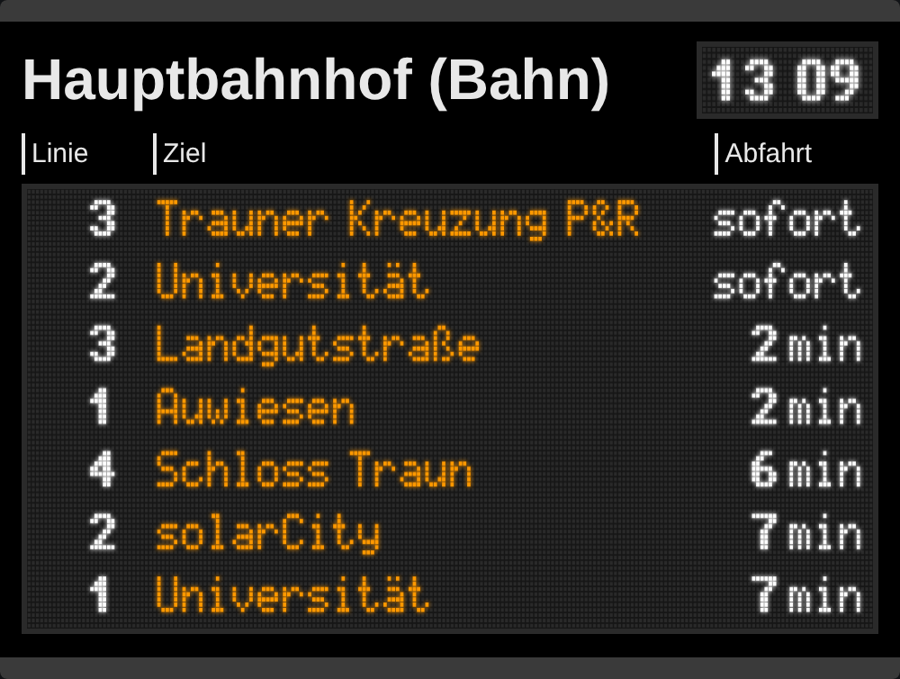
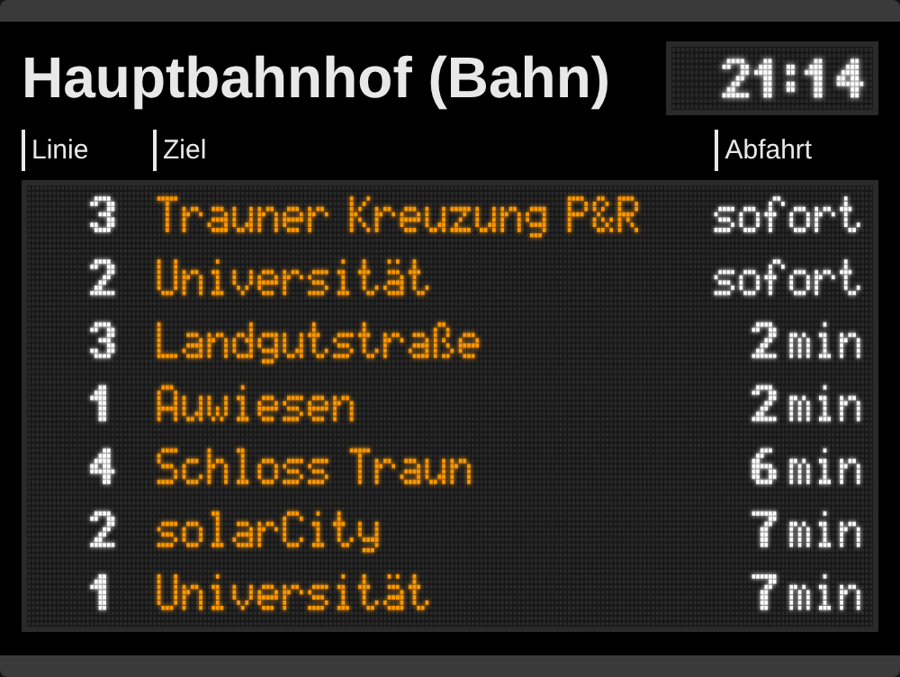
v2.3.3: LED-Wall – LED-Fenster mit Uhrzeit, Datum und Temperatur im Wechsel
- Inhalt des LED-Fensters rechtsbündig
- Wechsel: Uhrzeit 6 s (Doppelpunkt blinkt), Datum 3 s, Temperatur 3 s
  (Temperatur am Ort der Haltestelle aus dem Sensor "Nächste Abfahrt")
- Einstellbar: Wechsel oder nur Uhrzeit (led_clock_mode: time)
- Beschreibung und Vorschaubild angepasst

Claude-Session: https://claude.ai/code/session_01UGasuBwGSLjhjSTvDMnsjH

diff --git a/custom_components/linz_ag_monitor/frontend/linz-linien-combined.js b/custom_components/linz_ag_monitor/frontend/linz-linien-combined.js
@@ -434,7 +434,16 @@ class LinzMonitorIrmscherEditorV11 extends HTMLElement {
             </select>
           </div>
         </div>
-        <label class="toggle-box"><input id="led_clock" class="std-input" type="checkbox" ${this._config.led_clock !== false ? 'checked' : ''}><span>Uhrzeit oben rechts (LED-Fenster)</span></label>
+        <div class="grid-2">
+          <label class="toggle-box"><input id="led_clock" class="std-input" type="checkbox" ${this._config.led_clock !== false ? 'checked' : ''}><span>LED-Fenster oben rechts</span></label>
+          <div>
+            <label>🕒 Im LED-Fenster</label>
+            <select id="led_clock_mode" class="std-input">
+              <option value="" ${this._config.led_clock_mode !== 'time' ? 'selected' : ''}>Uhrzeit, Datum &amp; Temperatur im Wechsel</option>
+              <option value="time" ${this._config.led_clock_mode === 'time' ? 'selected' : ''}>Nur Uhrzeit</option>
+            </select>
+          </div>
+        </div>
         <div class="hint-text">„Anzahl der Zeilen“ oben bestimmt, wie viele Abfahrten die Tafel zeigt.</div>`}
        `;
     } else if (mode === "stele") {
@@ -1875,7 +1884,7 @@ class LinzMonitorCombined extends HTMLElement {
           .lw-head { display: flex; align-items: baseline; justify-content: space-between; gap: 2cqw; margin-bottom: 1.6cqw; }
           .lw-title { font-size: 6.4cqw; font-weight: 700; line-height: 1.15; white-space: nowrap; overflow: hidden; text-overflow: ellipsis; }
           .lw-head { align-items: center; }
-          .lw-clockbox { flex: 0 0 auto; width: 19cqw; background: #161616; border: 0.6cqw solid #2a2a2a; }
+          .lw-clockbox { flex: 0 0 auto; width: 22.5cqw; background: #161616; border: 0.6cqw solid #2a2a2a; }
           .lw-clockbox canvas { display: block; width: 100%; }
           .lw-labels { position: relative; height: 4.6cqw; font-size: 3cqw; margin-bottom: 1cqw; }
           .lw-labels span { position: absolute; top: 0; border-left: 2px solid var(--lw-txt); padding-left: .7cqw; line-height: 4.6cqw; }
@@ -1932,20 +1941,50 @@ class LinzMonitorCombined extends HTMLElement {
     this._lwTick();
   }
 
-  /* Uhrzeit im kleinen LED-Fenster oben rechts: fette Ziffern, Doppelpunkt blinkt im Sekundentakt */
+  /* LED-Fenster oben rechts, rechtsbündig. Wechselt (led_clock_mode "cycle", Standard):
+       Uhrzeit 6 s (Doppelpunkt blinkt) -> Datum 3 s -> Temperatur am Ort der Haltestelle 3 s.
+     led_clock_mode "time": nur die Uhrzeit. Temperatur = Attribut "temperature" des Haltestellen-Sensors. */
   _lwDrawClock(now) {
     const cv = this.querySelector("#lw-clock");
     if (!cv) return;
+    const c = this._config;
     const d = new Date(now), p2 = (n) => String(n).padStart(2, "0");
-    const colon = d.getSeconds() % 2 === 0;
-    const COLOR = this._config.led_num_color || "#ffffff";
-    const PAD = 2, CW = 7 * 4 + 5 + 2 * PAD - 1, CH = 7 + 2 * PAD;   // 4 Ziffern + Doppelpunkt
-    const cells = [];
-    let x = PAD;
-    x += this._lwText(cells, x, PAD, p2(d.getHours()), true);
-    if (colon) [1, 2, 4, 5].forEach(ry => [0, 1].forEach(rx => cells.push([x + rx, PAD + ry])));
-    x += 4;
-    this._lwText(cells, x, PAD, p2(d.getMinutes()), true);
+    const st = this._hass && this._hass.states[c.entity];
+    const t = st && st.attributes ? st.attributes.temperature : null;
+    const hasTemp = typeof t === "number" && isFinite(t);
+    let mode = "time";
+    if (c.led_clock_mode !== "time") {
+      const cycle = hasTemp ? 12000 : 9000, ph = now % cycle;
+      mode = ph < 6000 ? "time" : ph < 9000 ? "date" : "temp";
+    }
+    // Teile: [Text, Art] – Art: "d" fette Ziffer, "colon", "dot", "comma", "minus", "deg", "C"
+    const parts = [];
+    const digits = (str) => Array.from(str).forEach(ch => parts.push([ch, "d"]));
+    if (mode === "time") { digits(p2(d.getHours())); parts.push([":", "colon"]); digits(p2(d.getMinutes())); }
+    else if (mode === "date") { digits(p2(d.getDate())); parts.push([".", "dot"]); digits(p2(d.getMonth() + 1)); parts.push([".", "dot"]); }
+    else {
+      const v = Math.round(t * 10) / 10, txt = Math.abs(v).toFixed(1);
+      if (v < 0) parts.push(["-", "minus"]);
+      const [ip, fp] = txt.split(".");
+      digits(ip); parts.push([",", "comma"]); digits(fp); parts.push(["°", "deg"]); parts.push(["C", "C"]);
+    }
+    const W = { d: 7, colon: 4, dot: 3, comma: 3, minus: 5, deg: 5, C: 6 };
+    const PAD = 2, CW = 44, CH = 7 + 2 * PAD;            // Platz für "-12,3°C"
+    const total = parts.reduce((sum, [, k]) => sum + W[k], 0) - 1;
+    let x = CW - PAD - total;                           // rechtsbündig
+    const cells = [], put = (xx, yy) => cells.push([xx, PAD + yy]);
+    const blinkOn = d.getSeconds() % 2 === 0;
+    for (const [ch, k] of parts) {
+      if (k === "d") this._lwText(cells, x, PAD, ch, true);
+      else if (k === "colon") { if (blinkOn) [1, 2, 4, 5].forEach(ry => [0, 1].forEach(rx => put(x + rx, ry))); }
+      else if (k === "dot") [5, 6].forEach(ry => [0, 1].forEach(rx => put(x + rx, ry)));
+      else if (k === "comma") { [5, 6].forEach(ry => [0, 1].forEach(rx => put(x + rx, ry))); put(x, 7); }
+      else if (k === "minus") [0, 1, 2, 3].forEach(rx => put(x + rx, 3));
+      else if (k === "deg") [[1,0],[2,0],[0,1],[3,1],[0,2],[3,2],[1,3],[2,3]].forEach(([rx, ry]) => put(x + rx, ry));
+      else if (k === "C") this._lwText(cells, x, PAD, "C", false);
+      x += W[k];
+    }
+    const COLOR = c.led_num_color || "#ffffff";
     const dpr = window.devicePixelRatio || 1, cssW = cv.clientWidth || 80;
     const cw = Math.max(CW, Math.round(cssW * dpr)), ch = Math.round(cw * CH * LW_ASPECT / CW);
     const key = COLOR + "|" + cw + "|" + cells.map(p => p[0] * 100 + p[1]).join(",");

diff --git a/custom_components/linz_ag_monitor/__init__.py b/custom_components/linz_ag_monitor/__init__.py
@@ -8,7 +8,7 @@ from homeassistant.helpers import config_validation as cv
 
 DOMAIN = "linz_ag_monitor"
 PLATFORMS = ["sensor"]
-VERSION = "2.3.2"
+VERSION = "2.3.3"
 
 URL_BASE = "/linz_ag_monitor"
 CARD_FILE = "linz-linien-combined.js"

diff --git a/README.md b/README.md
@@ -7,7 +7,7 @@
 **Live-Abfahrten der Linz AG Linien für Home Assistant – mit fünf Anzeige-Designs,<br>vom kompakten Listen-Layout bis zum originalgetreuen Nachbau der Haltestellen-Anzeige.**
 
 [![hacs_badge](https://img.shields.io/badge/HACS-Custom-41BDF5.svg?style=for-the-badge)](https://github.com/hacs/integration)
-[![version](https://img.shields.io/badge/version-2.3.2-red.svg?style=for-the-badge)](https://github.com/irmscher123/linz-linien-abfahrtsmonitor/releases)
+[![version](https://img.shields.io/badge/version-2.3.3-red.svg?style=for-the-badge)](https://github.com/irmscher123/linz-linien-abfahrtsmonitor/releases)
 [![maintainer](https://img.shields.io/badge/maintainer-irmscher123-green.svg?style=for-the-badge)](https://github.com/irmscher123)
 
 <img src="https://raw.githubusercontent.com/irmscher123/linz-linien-abfahrtsmonitor/main/pictures/dashboards.png" width="900" alt="Die Designs Maxi, Midi, Mini, LED-Wall und Haltestellen-Säule">
@@ -41,7 +41,7 @@
 | 🎨 **Fünf Designs** | Maxi, Midi, Mini, LED-Wall und Haltestellen-Säule – alles in einer Karte |
 | 🖱 **Ohne YAML** | Alles im Karten-Editor einstellbar, Linien und Richtungen per Klick filtern |
 | 📦 **Alles inklusive** | Die Karte wird mit der Integration installiert und automatisch geladen |
-| 🌡 **Temperatur am Ort** | Temperatur an der Haltestelle für die Info-Zeile der Säule |
+| 🌡 **Temperatur am Ort** | Temperatur an der Haltestelle – im LED-Fenster der LED-Wall und in der Info-Zeile der Säule |
 | 🪶 **Schonend** | Ein Abruf pro Minute und Haltestelle, die lange Abfahrtsliste landet nicht im Verlauf |
 
 ---
@@ -95,7 +95,7 @@ Lange Hinweise laufen als Laufschrift durch, ausgefallene Fahrten werden markier
 
 Eine Abfahrtstafel als echte Punktmatrix über die volle Kartenbreite.
 
-- **Kopf:** Haltestellenname groß, Spaltenköpfe „Linie / Ziel / Abfahrt“, Uhrzeit in einem kleinen LED-Fenster – der Doppelpunkt blinkt im Sekundentakt.
+- **Kopf:** Haltestellenname groß, Spaltenköpfe „Linie / Ziel / Abfahrt“ und ein kleines LED-Fenster oben rechts: Uhrzeit (Doppelpunkt blinkt), Datum und Temperatur am Ort der Haltestelle im Wechsel – oder nur die Uhrzeit.
 - **Schrift:** Liniennummer und Abfahrt fett, Ziele ausgeschrieben in 5×7-Punktschrift – alles gleich hoch.
 - **Abfahrt jetzt:** wahlweise „sofort“ oder zwei Sterne, die abwechselnd links und rechts blinken.
 - **Ab 60 Minuten** oder mit Zeitanzeige „Uhrzeit“ steht die Abfahrtszeit statt der Minuten.
@@ -227,7 +227,8 @@ led_num_color: "#ffffff"     # Linie und Abfahrt
 led_bar_color: "#3a3a3a"     # Leisten oben und unten
 led_bg_color: "#000000"      # Hintergrund
 led_text_color: "#e8e8e8"    # Name und Spaltenköpfe
-led_clock: true              # Uhrzeit im LED-Fenster
+led_clock: true              # LED-Fenster oben rechts
+led_clock_mode: ""           # "" = Uhrzeit/Datum/Temperatur im Wechsel, "time" = nur Uhrzeit
 led_now: ""                  # "" = sofort, "stars" = zwei blinkende Sterne
 # led_style: classic         # frühere Darstellung
 ```
@@ -297,7 +298,8 @@ stele_compact: false         # true = nur LED-Zeilen
 | `led_bar_color` | Leisten oben und unten | `#3a3a3a` |
 | `led_bg_color` | Hintergrund | `#000000` |
 | `led_text_color` | Haltestellenname und Spaltenköpfe | `#e8e8e8` |
-| `led_clock` | Uhrzeit im LED-Fenster oben rechts | `true` |
+| `led_clock` | LED-Fenster oben rechts anzeigen | `true` |
+| `led_clock_mode` | leer = Uhrzeit, Datum und Temperatur im Wechsel, `time` = nur Uhrzeit | Wechsel |
 | `led_now` | Abfahrt jetzt: leer = „sofort“, `stars` = zwei blinkende Sterne | „sofort“ |
 </details>
 
